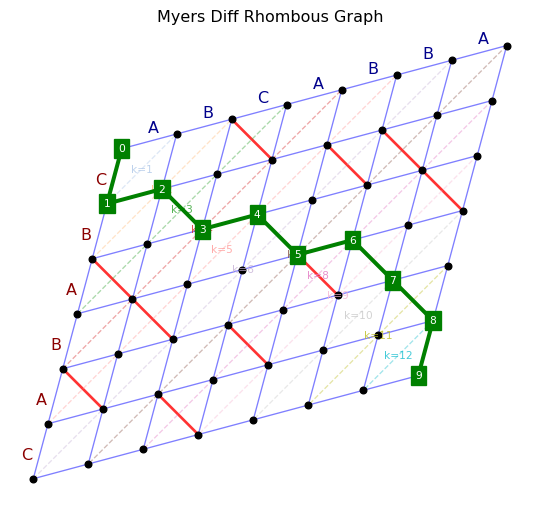
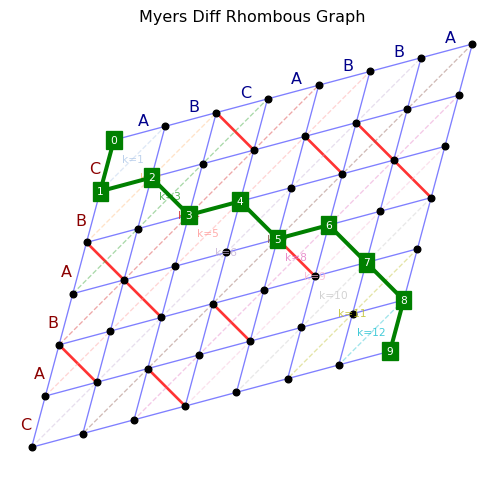
tune the sizes, and fix in the readme

diff --git a/doc/script/plot_myers.py b/doc/script/plot_myers.py
@@ -34,7 +34,7 @@ def compute_edit_path(A, B):
     path.reverse()
     return path
 
-def draw_myers_graph(title, title_pad, A, B, transform_func, regions, figsize, output_file):
+def draw_myers_graph(title, title_pad, A, B, transform_func, regions, figsize, fontsize, output_file):
     """
     Draw and save Myers graph with customizable parameters.
     """
@@ -68,10 +68,10 @@ def draw_myers_graph(title, title_pad, A, B, transform_func, regions, figsize, o
     # Add labels using transform_func
     for i, char in enumerate(A):
         tx, ty = transform_func(i + 0.5, -0.25)
-        ax.text(tx, ty, char, ha='center', va='center', fontsize=12, color='darkblue')
+        ax.text(tx, ty, char, ha='center', va='center', fontsize=fontsize, color='darkblue')
     for j, char in enumerate(B):
         tx, ty = transform_func(-0.25, j + 0.5)
-        ax.text(tx, ty, char, ha='center', va='center', fontsize=12, color='darkred')
+        ax.text(tx, ty, char, ha='center', va='center', fontsize=fontsize, color='darkred')
 
     # Draw k anti-diagonals
     max_k = N + M
@@ -138,9 +138,9 @@ def draw_myers_graph(title, title_pad, A, B, transform_func, regions, figsize, o
 def transform_classic(x, y):
     return x, -y
 
+b = 2 - np.sqrt(3)
 def transform_rhombous(x, y):
-    b = -2 + np.sqrt(3)
-    return x + b * y, -y - b * x
+    return x - b * y, -y + b * x
 
 draw_myers_graph(
     title = "Myers Diff Graph",
@@ -148,7 +148,8 @@ draw_myers_graph(
     A="ABCABBA", 
     B="CBABAC",
     regions=False,
-    figsize = (6, 6),
+    figsize = (7, 6),
+    fontsize=12,
     transform_func=transform_classic,
     output_file="doc/img/plot_classic.png")
 
@@ -158,7 +159,8 @@ draw_myers_graph(
     A="ABCABBA", 
     B="CBABAC",
     regions=False,
-    figsize = (7, 7),
+    fontsize=12,
+    figsize = (7, 6),
     transform_func=transform_rhombous,
     output_file="doc/img/plot_classic_rhombous.png")
 
@@ -168,7 +170,8 @@ draw_myers_graph(
     A="ABCDEF", 
     B="ACE",
     regions=True,
-    figsize = (7, 4),
+    figsize = (6, 3),
+    fontsize=10,
     transform_func=transform_rhombous,
     output_file="doc/img/plot_regions1.png")
 
@@ -178,7 +181,8 @@ draw_myers_graph(
     A="ACE", 
     B="ABCDEF",
     regions=True,
-    figsize = (4, 7),
+    figsize = (3, 6),
+    fontsize=10,
     transform_func=transform_rhombous,
     output_file="doc/img/plot_regions2.png")
 
@@ -188,6 +192,7 @@ draw_myers_graph(
     A="ABC", 
     B="ACE",
     regions=True,
-    figsize = (4, 4),
+    figsize = (3, 3),
+    fontsize=8,
     transform_func=transform_rhombous,
     output_file="doc/img/plot_regions3.png")

diff --git a/README.md b/README.md
@@ -89,10 +89,6 @@ While this is sufficient to illustrate the idea behind the algorithm, it is slig
 
 ![Myers classic figure](doc/img/plot_classic_rhombous.png)
 
-### Limit the scanning
-
-Using the same logic from the previous point, we can not only reduce the size of the turn vectors but also apply the same approach to scanning. This eliminates a large number of expansion attempts that we know will fail because they fall outside the boundaries of one sequence or the other.
-
 ---
 
 ## Inplace twicks
@@ -113,7 +109,7 @@ During forward tracing, it is essential to track the value of `x`, which inheren
 
 **Note:** This is a significant idea. It separates the concept of forward traversal of data from the data needed for backtracking, which will become important later on.
 
-### Limit the Scanning and Shrink the Turns Vector Size
+### Shrink the Turns Vector Size
 
 To further reduce the memory footprint, we make the following observation:  
 
@@ -136,6 +132,10 @@ Also, note that region 2 may appear on either side, depending on whether **A** o
 If the two strings are of equal length, this region 2 will be empty.
 
 ![Myers A=B regions figure](doc/img/plot_regions3.png)
+
+### Limit the scanning
+
+Using the same logic from the previous point, we can not only reduce the size of the turn vectors but also apply the same approach to scanning. This eliminates a large number of expansion attempts that we know will fail because they fall outside the boundaries of one sequence or the other.
 
 ## Comparex: New Longest Subsequence Algorithm
 
